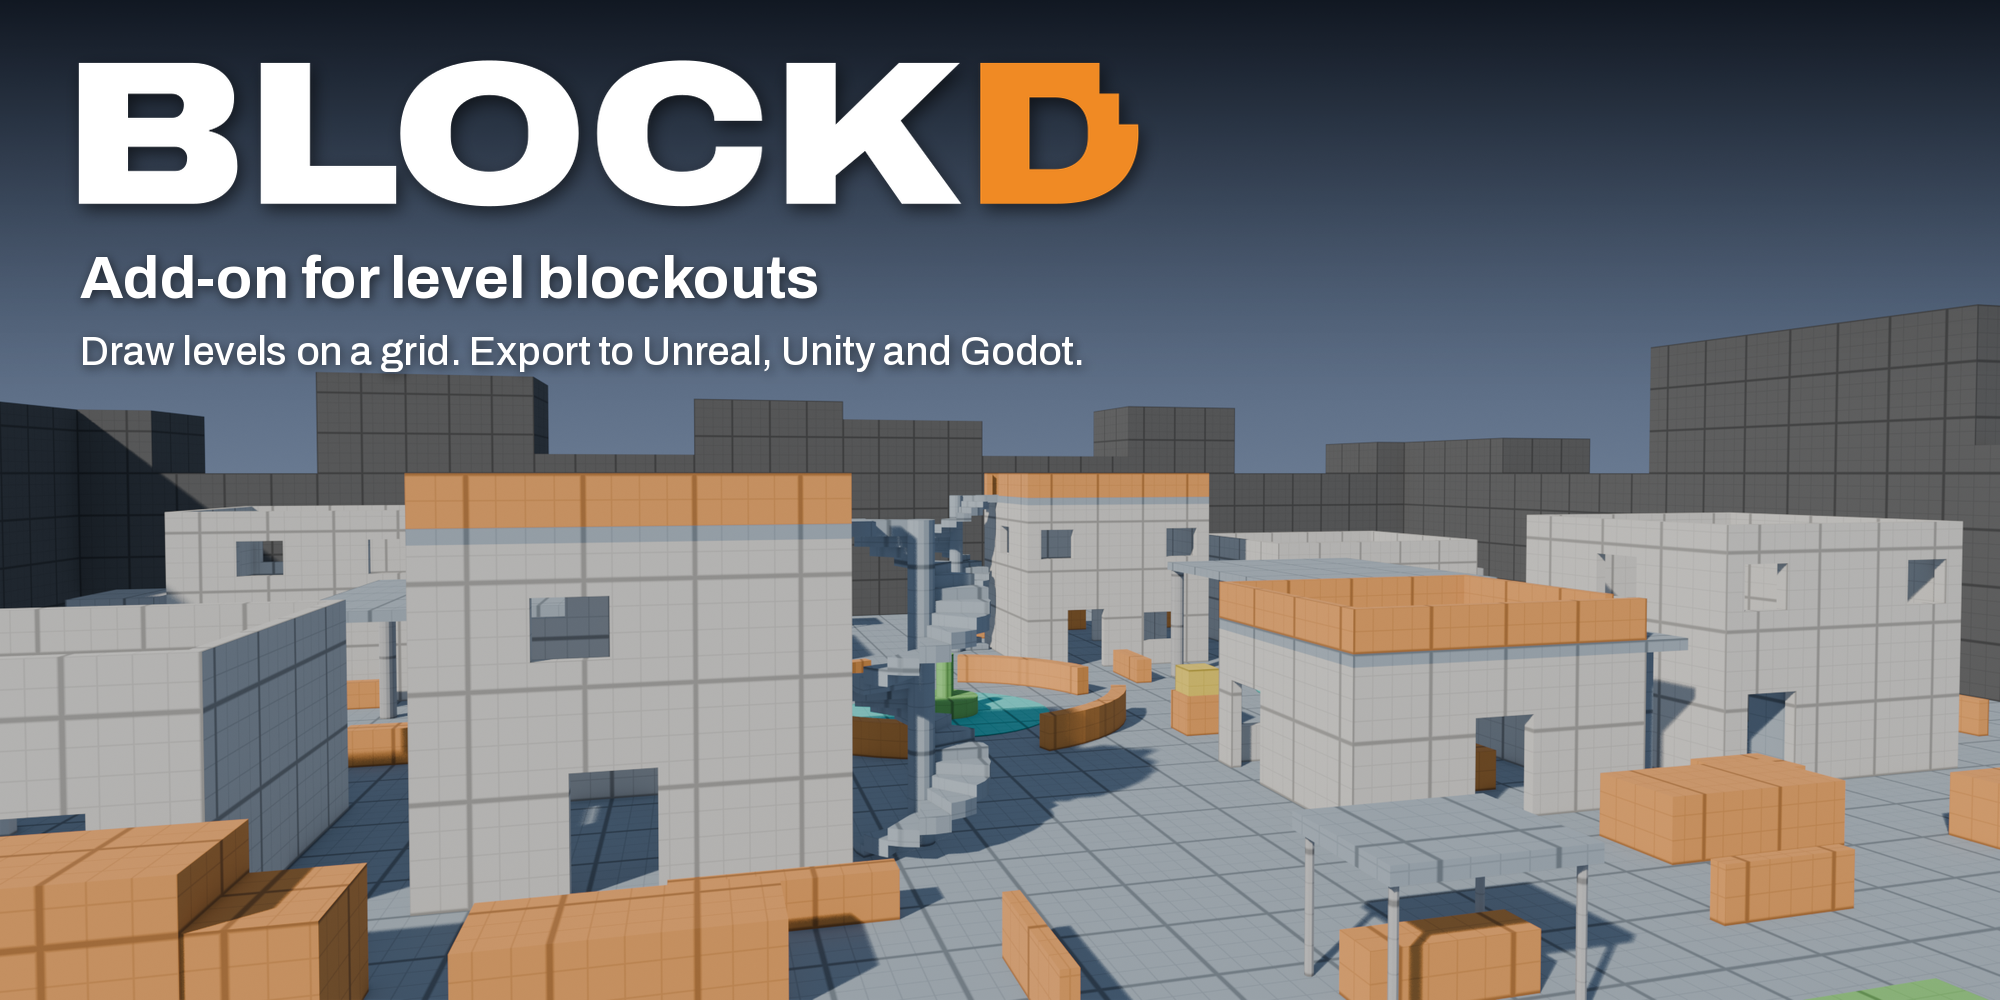
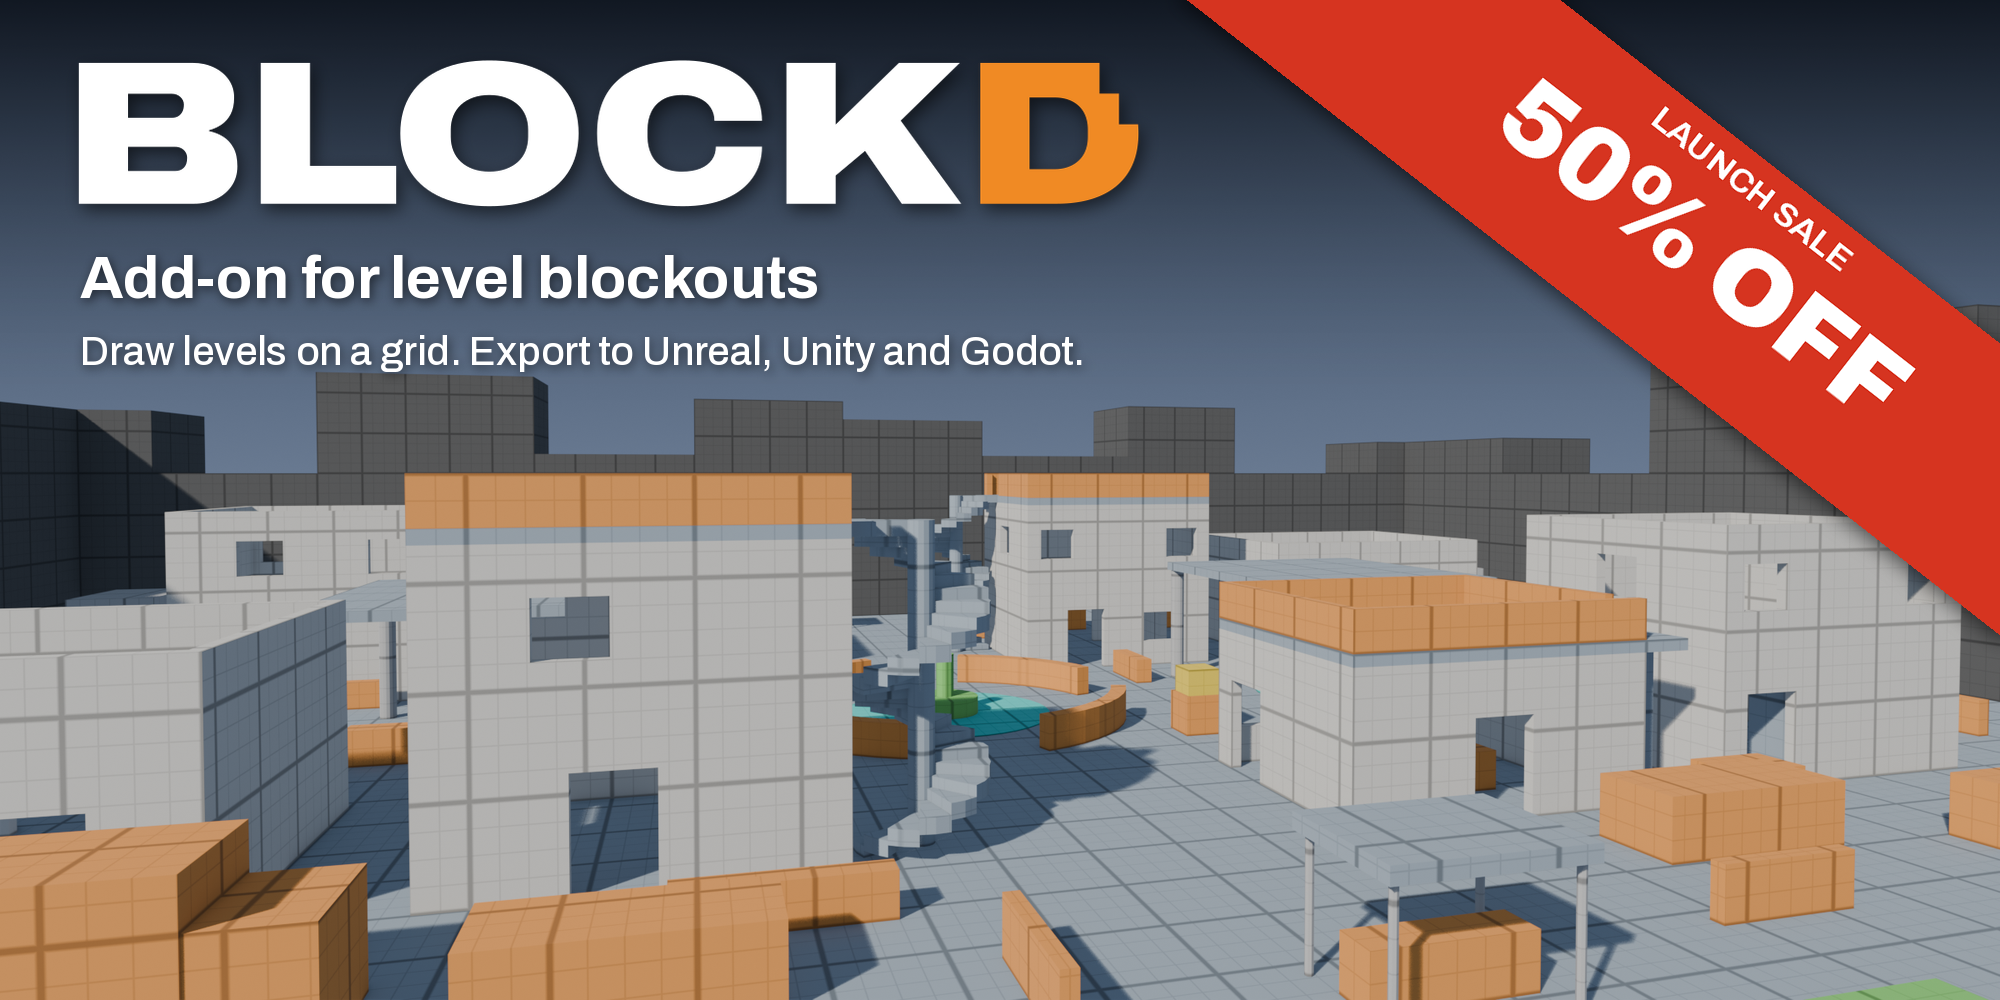
Blockd page: launch sale strip, extended to November 26; featured image with the ribbon

Changed region(s): [[0.589, 0.0, 1.0, 0.651]]

diff --git a/blockd/index.html b/blockd/index.html
@@ -185,10 +185,15 @@
     h1 { font-size: 24px; }
   }
   .aside { margin: -6px 0 24px; color: var(--soft); font-size: 15px; line-height: 1.55; }
+  /* Sale strip: remove the element and this rule when the sale ends. */
+  .sale { margin: -34px -28px 28px; padding: 11px 28px; max-width: none; background: var(--accent); color: #1a1206; font-size: 16px; line-height: 1.35; font-weight: 800; font-stretch: 112%; }
+  @media (max-width: 520px) { .sale { margin: -26px -16px 22px; padding: 10px 16px; font-size: 15px; } }
 </style>
 </head>
 <body>
 <main>
+
+  <p class="sale">Launch sale extended: 50% off until November 26.</p>
 
   <h1>Block out game levels on the grid.</h1>
   <p class="lead">Blockd is a Blender add-on for level blockouts. Draw walls, floors, stairs and doorways, size them from your player's metrics, and export the meshes with collision to Unreal, Unity or Godot.</p>
